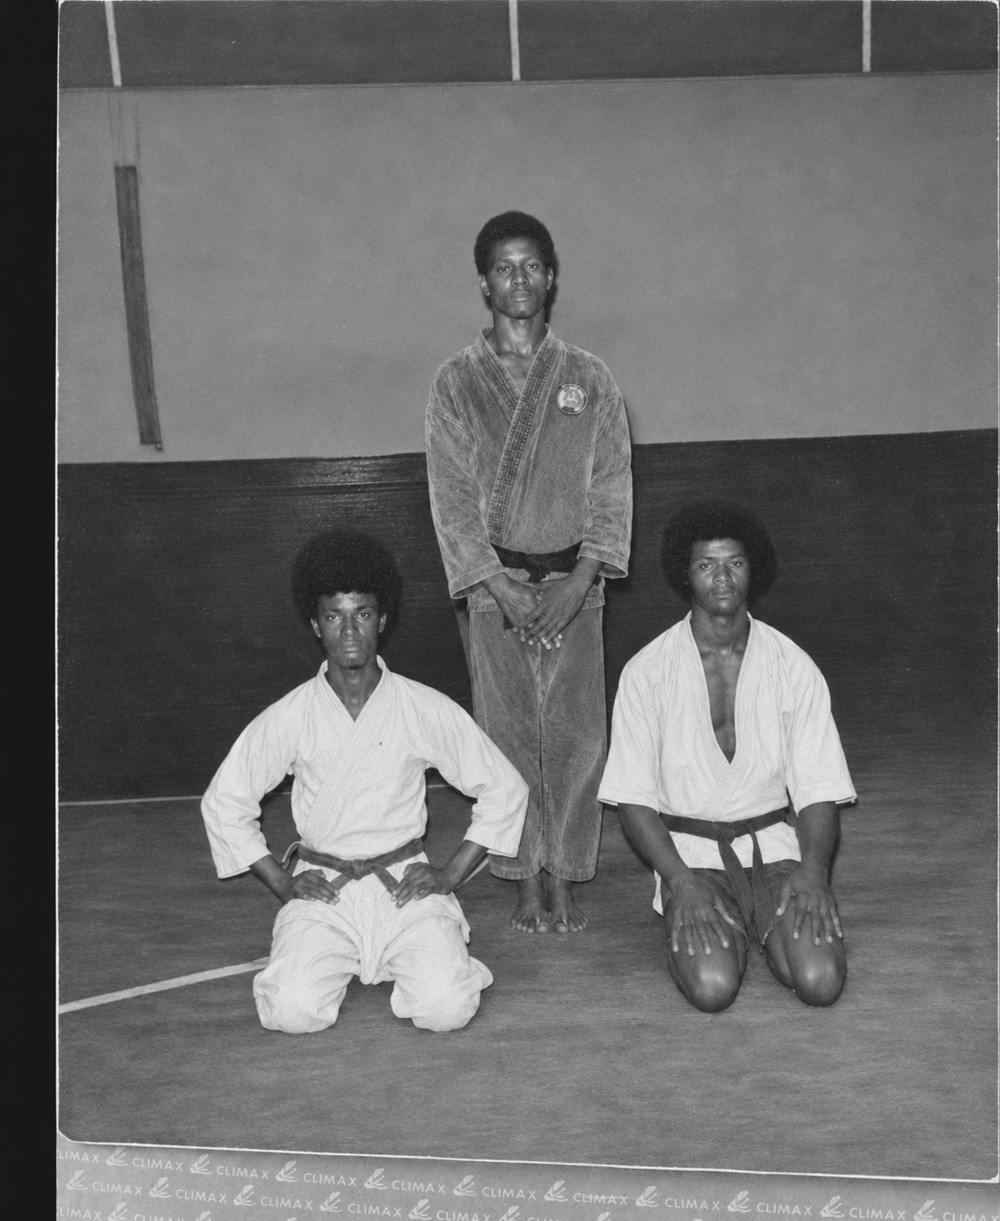
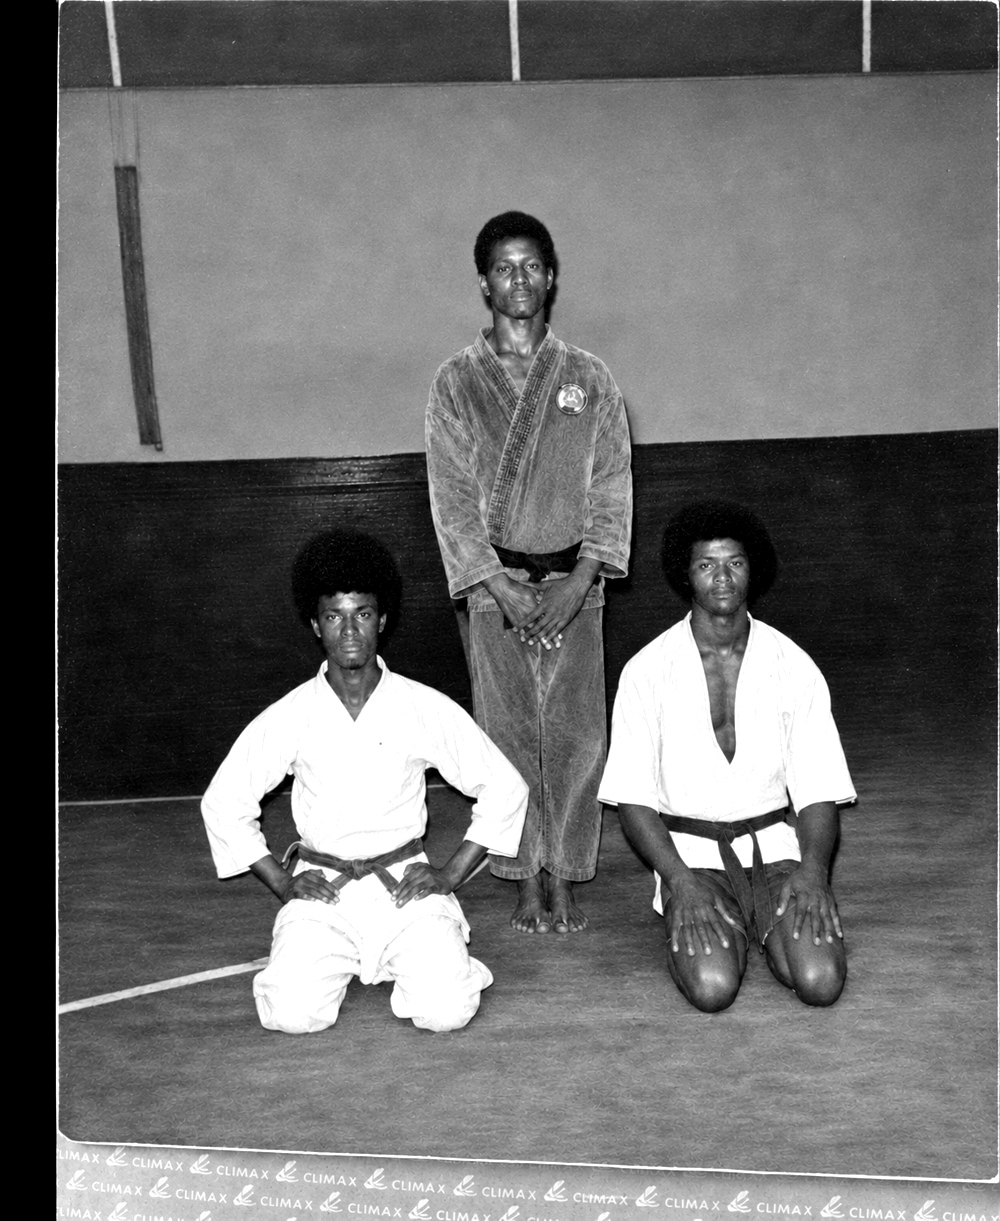
Add files via upload

diff --git a/index.html b/index.html
@@ -1,1 +1,1 @@
-<!doctype html><html lang="es" data-lang="es"><head><meta charset="utf-8"><meta name="viewport" content="width=device-width,initial-scale=1"><meta name="description" content="CAMT · Karate Shotokan tradicional en Ciudad de Panamá"><title>Inicio | CAMT Panamá</title><link rel="icon" href="assets/logo.jpg"><link rel="stylesheet" href="style.css"><script src="config.js" defer></script><script src="script.js" defer></script></head><body><a class="skip" href="#main"><span lang="es">Ir al contenido</span><span lang="en">Skip to content</span></a><header><a class="brand" href="index.html"><img src="assets/logo.jpg" alt=""><span>CAMT<small>PANAMÁ</small></span></a><nav aria-label="Navigation"><a href="index.html" aria-current="page"><span lang="es">Inicio</span><span lang="en">Home</span></a><a href="about.html"><span lang="es">Nosotros</span><span lang="en">About</span></a><a href="upcoming.html"><span lang="es">Próximos eventos</span><span lang="en">Upcoming</span></a><a href="socials.html"><span lang="es">Redes sociales</span><span lang="en">Socials</span></a></nav><div class="languages"><button data-language="es" aria-pressed="true">ES</button><button data-language="en" aria-pressed="false">EN</button></div></header><main id="main"><section class="hero"><div class="hero-art"><img src="assets/logo.jpg" alt="CAMT"></div><div class="hero-copy"><p class="eyebrow"><span lang="es">KARATE SHOTOKAN TRADICIONAL</span><span lang="en">TRADITIONAL SHOTOKAN KARATE</span></p><h1>Centro de Artes Marciales Tradicional</h1><p class="gold"><span lang="es">DISCIPLINA · RESPETO · TRADICIÓN</span><span lang="en">DISCIPLINE · RESPECT · TRADITION</span></p><p><span lang="es">El arte y el espíritu del karate tradicional en Panamá.</span><span lang="en">The art and spirit of traditional karate in Panama.</span></p><a class="cta" href="about.html"><span lang="es">Conoce nuestro dojo</span><span lang="en">Discover our dojo</span></a></div></section><section class="ivory"><h2><span lang="es">El camino del karate</span><span lang="en">The way of karate</span></h2><div class="cards"><article><img src="assets/philosophy.jpg" alt="Fotografía histórica de karate / Historical karate photograph"><h3><span lang="es">Nuestra filosofía</span><span lang="en">Our philosophy</span></h3><p><span lang="es">Tradición, carácter y desarrollo personal.</span><span lang="en">Tradition, character and personal development.</span></p></article><article><img src="assets/training.jpg" alt="Retrato en el dojo / Dojo portrait"><h3><span lang="es">Nuestro entrenamiento</span><span lang="en">Our training</span></h3><p><span lang="es">Kihon, kata y kumite.</span><span lang="en">Kihon, kata and kumite.</span></p></article></div></section><section class="section"><h2><span lang="es">Próximos eventos</span><span lang="en">Upcoming events</span></h2><p><span lang="es">Clases, seminarios y eventos especiales.</span><span lang="en">Classes, seminars and special events.</span></p><a href="upcoming.html"><span lang="es">Ver calendario →</span><span lang="en">View dojo calendar →</span></a></section></main><footer><h2><span lang="es">Conecta con CAMT</span><span lang="en">Connect with CAMT</span></h2><a href="socials.html">Instagram · Substack</a><p>© CAMT · Panamá, República de Panamá</p></footer></body></html>
+<!doctype html><html lang="es" data-lang="es"><head><meta charset="utf-8"><meta name="viewport" content="width=device-width,initial-scale=1"><meta name="description" content="CAMT · Karate Shotokan tradicional en Ciudad de Panamá"><title>Inicio | CAMT Panamá</title><link rel="icon" href="assets/logo.jpg"><link rel="stylesheet" href="style.css"><script src="config.js" defer></script><script src="script.js" defer></script></head><body><a class="skip" href="#main"><span lang="es">Ir al contenido</span><span lang="en">Skip to content</span></a><header><a class="brand" href="index.html"><img src="assets/logo.jpg" alt=""><span>CAMT<small>PANAMÁ</small></span></a><nav aria-label="Navigation"><a href="index.html" aria-current="page"><span lang="es">Inicio</span><span lang="en">Home</span></a><a href="about.html"><span lang="es">Nosotros</span><span lang="en">About</span></a><a href="upcoming.html"><span lang="es">Próximos eventos</span><span lang="en">Upcoming</span></a><a href="socials.html"><span lang="es">Redes sociales</span><span lang="en">Socials</span></a></nav><div class="languages"><button data-language="es" aria-pressed="true">ES</button><button data-language="en" aria-pressed="false">EN</button></div></header><main id="main"><section class="hero"><div class="hero-art"><img src="assets/dojo-hero.jpg" alt="Ilustración de entrenamiento de karate en un dojo tradicional / Illustration of karate training in a traditional dojo"></div><div class="hero-copy"><p class="eyebrow"><span lang="es">KARATE SHOTOKAN TRADICIONAL</span><span lang="en">TRADITIONAL SHOTOKAN KARATE</span></p><h1>Centro de Artes Marciales Tradicional</h1><p class="gold"><span lang="es">DISCIPLINA · RESPETO · TRADICIÓN</span><span lang="en">DISCIPLINE · RESPECT · TRADITION</span></p><p><span lang="es">El arte y el espíritu del karate tradicional en Panamá.</span><span lang="en">The art and spirit of traditional karate in Panama.</span></p><a class="cta" href="about.html"><span lang="es">Conoce nuestro dojo</span><span lang="en">Discover our dojo</span></a></div></section><section class="ivory"><h2><span lang="es">El camino del karate</span><span lang="en">The way of karate</span></h2><div class="cards"><article><img src="assets/philosophy.jpg" alt="Fotografía histórica de karate / Historical karate photograph"><h3><span lang="es">Nuestra filosofía</span><span lang="en">Our philosophy</span></h3><p><span lang="es">Tradición, carácter y desarrollo personal.</span><span lang="en">Tradition, character and personal development.</span></p></article><article><img src="assets/training.jpg" alt="Retrato en el dojo / Dojo portrait"><h3><span lang="es">Nuestro entrenamiento</span><span lang="en">Our training</span></h3><p><span lang="es">Kihon, kata y kumite.</span><span lang="en">Kihon, kata and kumite.</span></p></article></div></section><section class="section"><h2><span lang="es">Próximos eventos</span><span lang="en">Upcoming events</span></h2><p><span lang="es">Clases, seminarios y eventos especiales.</span><span lang="en">Classes, seminars and special events.</span></p><a href="upcoming.html"><span lang="es">Ver calendario →</span><span lang="en">View dojo calendar →</span></a></section></main><footer><h2><span lang="es">Conecta con CAMT</span><span lang="en">Connect with CAMT</span></h2><a href="socials.html">Instagram · Substack</a><p>© CAMT · Panamá, República de Panamá</p></footer></body></html>

diff --git a/style.css b/style.css
@@ -1,1 +1,2 @@
 *{box-sizing:border-box} :root{--gold:#c5a347;--dark:#090909;--ivory:#f4f1e9} html[data-lang=es] span[lang=en],html[data-lang=en] span[lang=es]{display:none} body{margin:0;background:var(--dark);color:#f5f5f5;font:16px/1.65 system-ui,sans-serif} a{color:var(--gold);text-underline-offset:4px} header{display:flex;align-items:center;justify-content:space-between;gap:24px;padding:14px max(5vw,16px);background:#171717;border-bottom:2px solid var(--gold);flex-wrap:wrap} .brand{display:flex;align-items:center;gap:12px;color:white;text-decoration:none;font-weight:800;font-size:24px;line-height:1.1}.brand img{width:64px;border-radius:50%}.brand small{display:block;color:var(--gold);font-size:11px;letter-spacing:3px;margin-top:5px} nav{display:flex;gap:clamp(12px,3vw,36px);flex-wrap:wrap} nav a{color:white;text-decoration:none;font-size:14px;font-weight:600} nav a[aria-current=page]{color:var(--gold);border-bottom:1px solid var(--gold)} button{background:transparent;color:white;border:1px solid #666;padding:7px 10px;cursor:pointer} button[aria-pressed=true]{color:var(--gold);border-color:var(--gold)} .languages{display:flex;gap:5px} .hero{text-align:center}.hero-art{background:radial-gradient(ellipse,#24201a,#090909 70%);padding:35px 20px 10px}.hero-art img{width:min(240px,55vw);border-radius:50%}.hero-copy{padding:20px 20px 65px;max-width:900px;margin:auto} h1,h2,h3{line-height:1.2;margin:0 0 20px} h1{font-size:clamp(34px,6vw,68px);font-family:Georgia,serif;font-weight:500} h2{font-size:clamp(25px,4vw,38px);font-family:Georgia,serif;font-weight:500} h3{font-size:23px}.eyebrow,.gold{color:var(--gold);letter-spacing:2px;font-size:13px;font-weight:700}.cta{display:inline-block;background:var(--gold);color:#090909;text-decoration:none;padding:12px 24px;font-weight:700;margin-top:12px}.ivory{background:var(--ivory);color:#171717;padding:55px max(5vw,20px)}.ivory>h2{text-align:center}.cards,.social-grid{display:grid;grid-template-columns:repeat(2,minmax(0,1fr));gap:30px;max-width:900px;margin:auto}.cards img{width:100%;aspect-ratio:4/5;object-fit:contain;background:#e5e0d5;border:1px solid #a88a3b;display:block;margin-bottom:20px}.cards p{color:#454545}.section{max-width:1100px;margin:auto;padding:65px 24px}.panel{border:1px solid #555;padding:24px;margin-top:20px}.panel iframe{width:100%;height:650px;border:0;background:white}footer{text-align:center;background:#171717;border-top:1px solid #3e3829;padding:35px 20px}footer h2{font-size:25px}footer p{font-size:13px;color:#aaa}.skip{position:absolute;left:-9999px}.skip:focus{left:10px;top:10px;background:black;padding:10px;z-index:5}:focus-visible{outline:2px solid var(--gold);outline-offset:4px} @media(max-width:650px){header{gap:12px}nav{order:3;width:100%;justify-content:space-between;gap:8px}nav a{font-size:12px}.cards,.social-grid{grid-template-columns:1fr}.section{padding:40px 20px}.hero-copy{padding-bottom:40px}}
+.hero-art{padding:0;background:#090909}.hero-art img{display:block;width:100%;height:auto;max-height:620px;object-fit:cover;border-radius:0}

diff --git a/README.md b/README.md
@@ -6,3 +6,5 @@ Create a dedicated public Google Calendar in America/Panama. In its settings, co
 
 ## Content
 The supplied logo and two photographs are included. The training portrait is grayscale. The homepage uses the logo rather than an unlicensed stock hero photo. Confirm permission to publish the photographs and provide historical captions, instructor details and contact information before adding them. No invented names or dates.
+
+Version 1.1: enhanced contrast on original portraits; generated illustrative dojo hero (not a photograph of CAMT).
